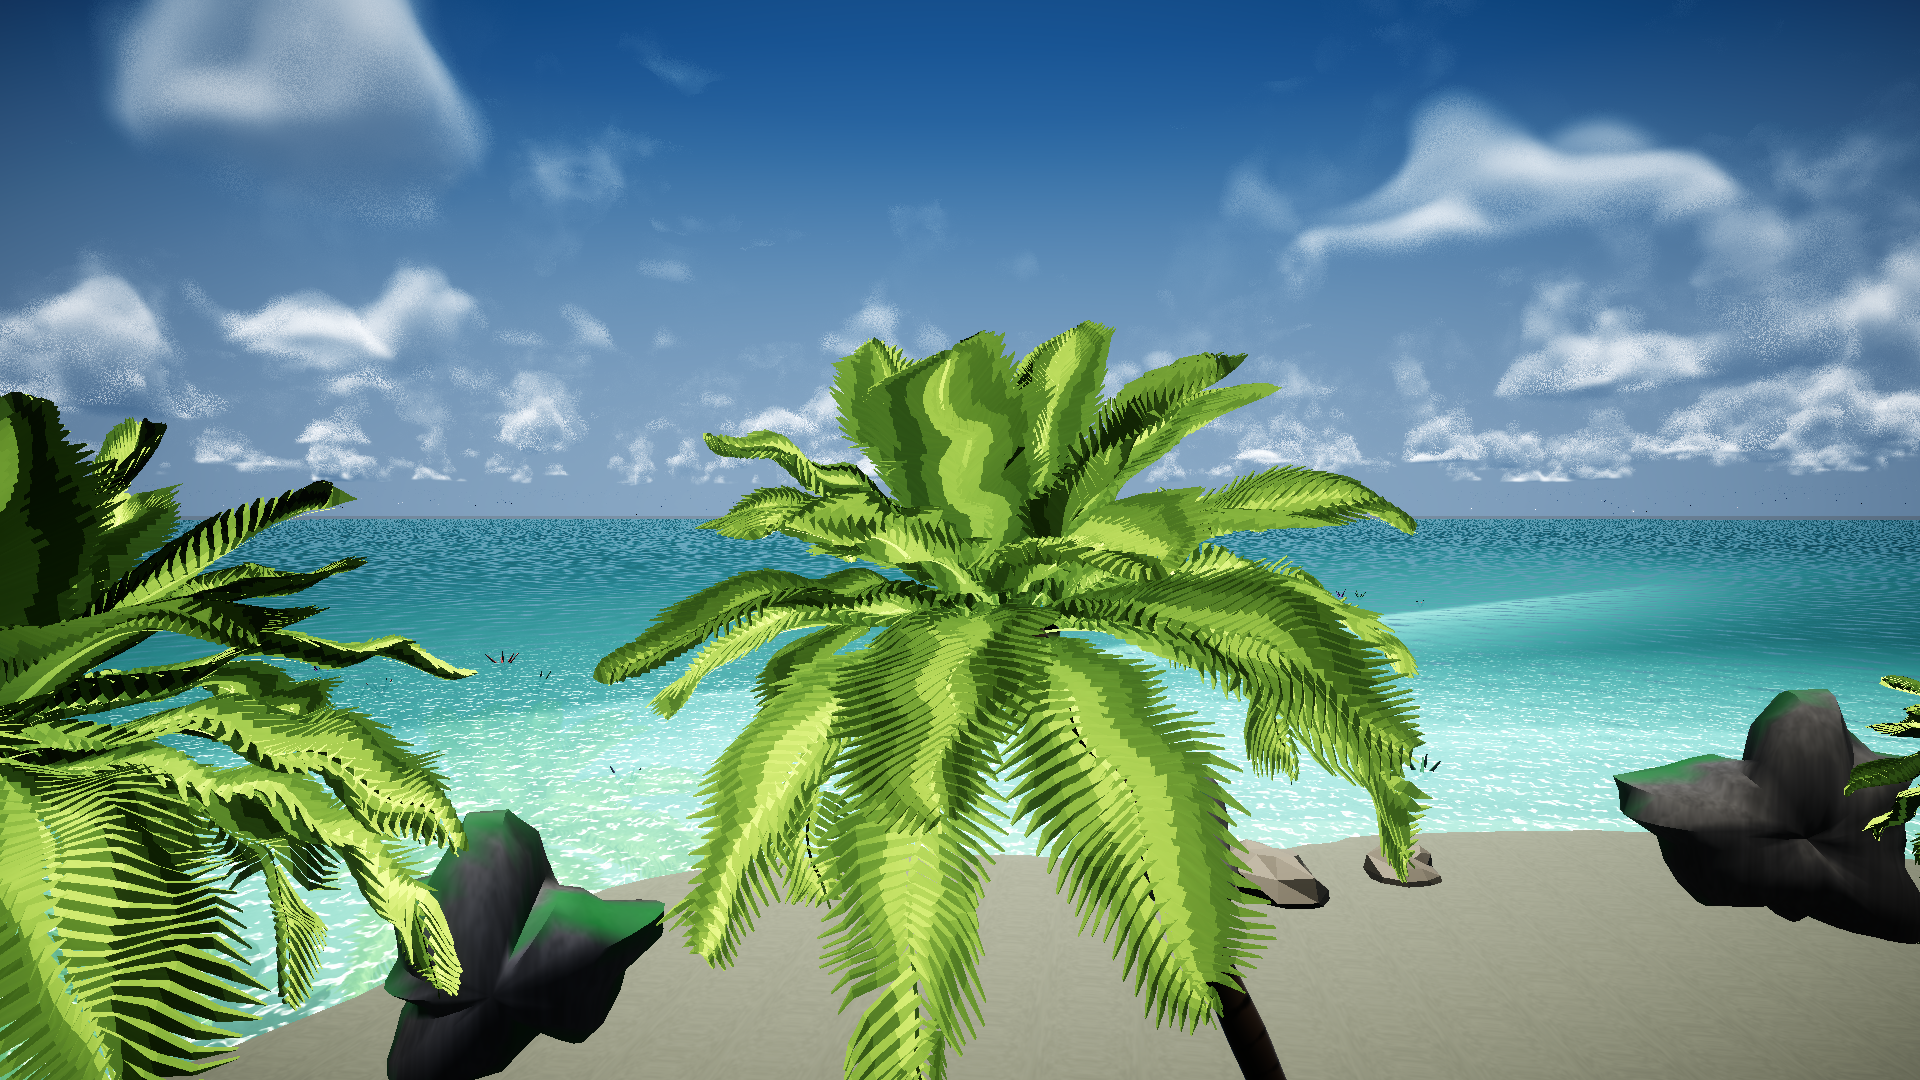
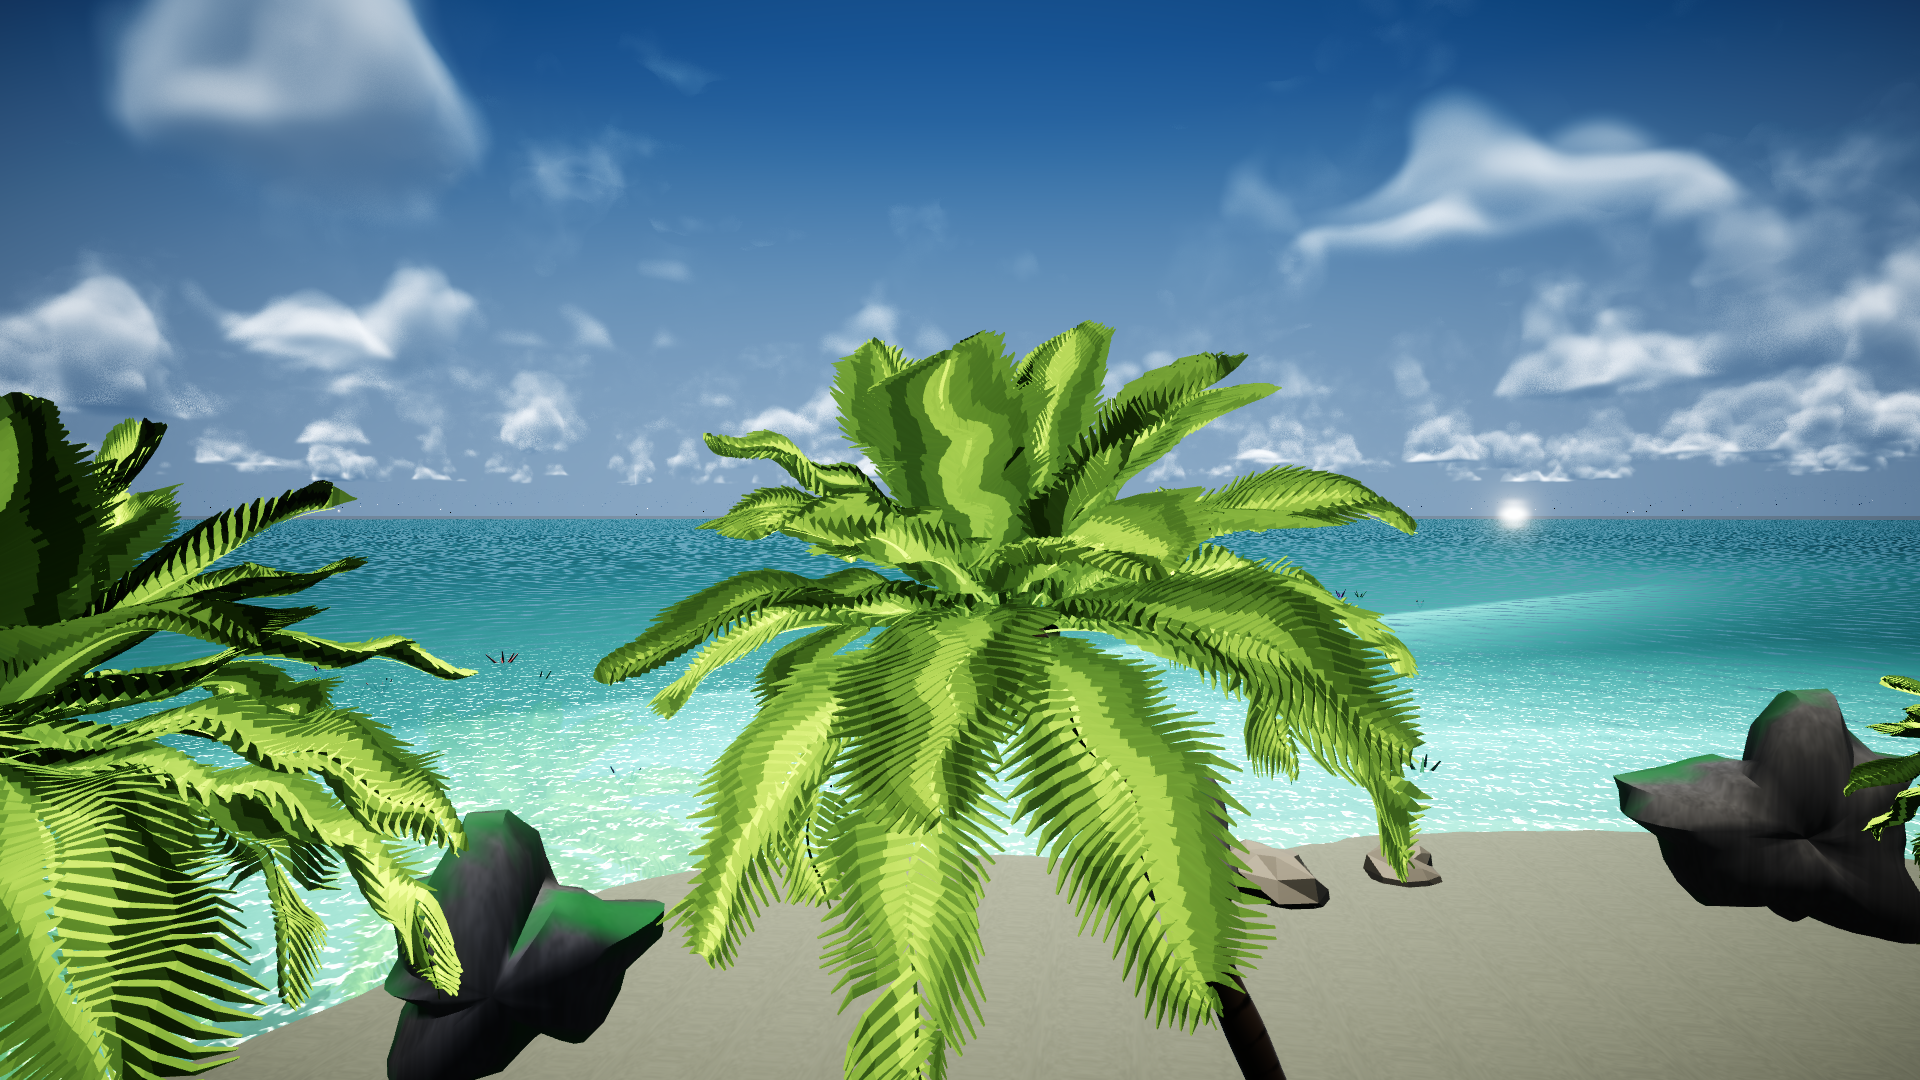
fix(R104): Islet 天空满屏颗粒 -- _MarchPasses 1->3, 颗粒-64% 且不慢反快. ①定位: Sky_Tropical 单相位抖动, 相邻像素相位不同=>密度随机偏差; 云透射率乘到整片天空底色, 所以蓝天也在抖 ②A/B: 云区高频点 50.7%->18.3% ③性能(Fix/582 120帧): P=1 avg20.0/p95 31.0ms; P=3 avg15.3/p95 16.0ms -- 相位多后不透明像素更早提前退出 ④顺带修采集口径: SeqCapture 离屏RT antiAliasing 1->4(原来截图锯齿比实际画面严重); 棕榈叶缘锯

diff --git a/Assets/Editor/SeqCaptureSetup.cs b/Assets/Editor/SeqCaptureSetup.cs
@@ -56,7 +56,7 @@ namespace WaterProject.EditorTools
             if (cam == null) { WriteProbe("SEQ95 REFUSED: 无 Camera.main\n"); return; }
             const int W = 1920, H = 1080;
             var rt = new RenderTexture(W, H, 24, RenderTextureFormat.ARGBHalf,
-                                       RenderTextureReadWrite.Default) { antiAliasing = 1 };
+                                       RenderTextureReadWrite.Default) { antiAliasing = 4 };   // R104: 1->4（原来离屏采集不带 MSAA，截图里的锯齿比实际游戏画面严重）
             rt.Create();
             var tex = new Texture2D(W, H, TextureFormat.RGBA32, false);
             var prevTarget = cam.targetTexture; var prevActive = RenderTexture.active; float prevAspect = cam.aspect;

diff --git a/Docs/学习路径与知识库/检测报告/R56_场景画质与采集口径.md b/Docs/学习路径与知识库/检测报告/R56_场景画质与采集口径.md
@@ -671,3 +671,42 @@ Main：115.1 / 53.7 / 83.8 / 近黑 0.01 / 爆白 0.35。
 15 个渲染器换完，巨石出现明暗分面（顶面偏亮、侧面偏暗），不再是黑洞。
 
 Main：116.2 / 52.5 / 81.5 / 近黑 0.01 / 爆白 0.35。
+
+---
+
+## R104：Islet 天空"满屏颗粒"——多相位平均 + 采集口径修正
+
+### 现象
+Islet 的云和蓝天上有一层**细密颗粒**（像撒了盐），云边尤其明显。
+
+### 定位
+`Sky_Tropical` 的云积分是**单相位抖动**（`_MarchPasses = 1`）：每个像素用不同的抖动起点
+去积分同一段云，相邻像素的相位完全不同 ⇒ 密度估计有随机偏差 ⇒ 颗粒。
+而且云透射率会乘到**整片天空底色**上（`col = col*cloudT + cloudAcc`），所以连没有云的蓝天也在抖。
+
+### A/B（同会话冻结，`_MarchPasses` 1/3/4）
+| 相位 | 云区高频点(>6) | Laplacian 均值 | 蓝空高频点 |
+| --- | --- | --- | --- |
+| **1（原）** | **50.7%** | 18.2 | 51.8% |
+| **3（采用）** | **18.3%** | 4.2 | 19.4% |
+| 4 | 26.5% | 5.8 | 28.0% |
+
+⇒ 颗粒 **−64%**。
+
+### 性能实测（`Tools/Fix/582`，Islet，120 帧）
+| 相位 | avg | p50 | p95 |
+| --- | --- | --- | --- |
+| 1 | 20.0ms | 15.0ms | **31.0ms** |
+| 3 | **15.3ms** | 15.0ms | **16.0ms** |
+
+⇒ **不慢反快**：相位多了以后，不透明像素更早触发提前退出（`trans < 0.012`），
+p95 从 31ms 掉到 16ms，帧时间更稳。
+
+### 顺带修：采集口径
+`SeqCapture` 的离屏 RT 一直是 `antiAliasing = 1`（**没有 MSAA**），
+所以**所有截图里的边缘锯齿都比实际游戏画面严重**。已改成 4。
+
+⚠ 但棕榈叶缘的"锯齿"改完仍在 —— 那不是抗锯齿问题，是**叶片本身是三角面片**（模型精度），
+MSAA 救不了。
+
+Islet：129.0 / 50.3 / 122.2 / 近黑 3.54 / 爆白 0.36。
